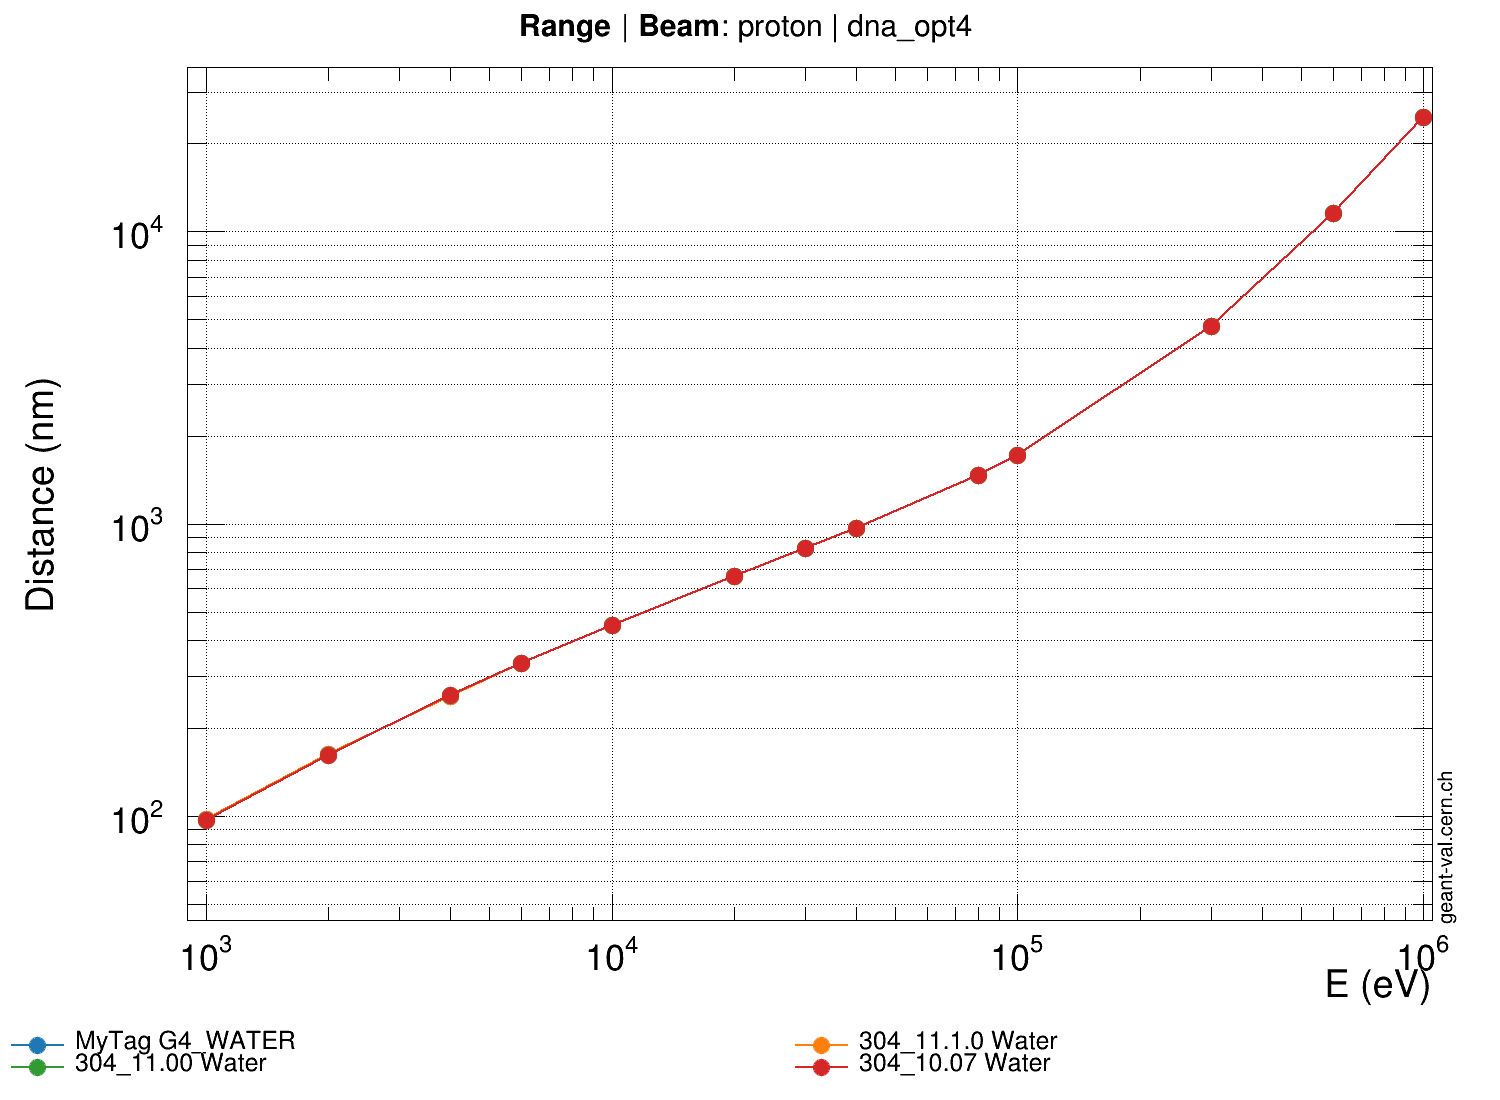
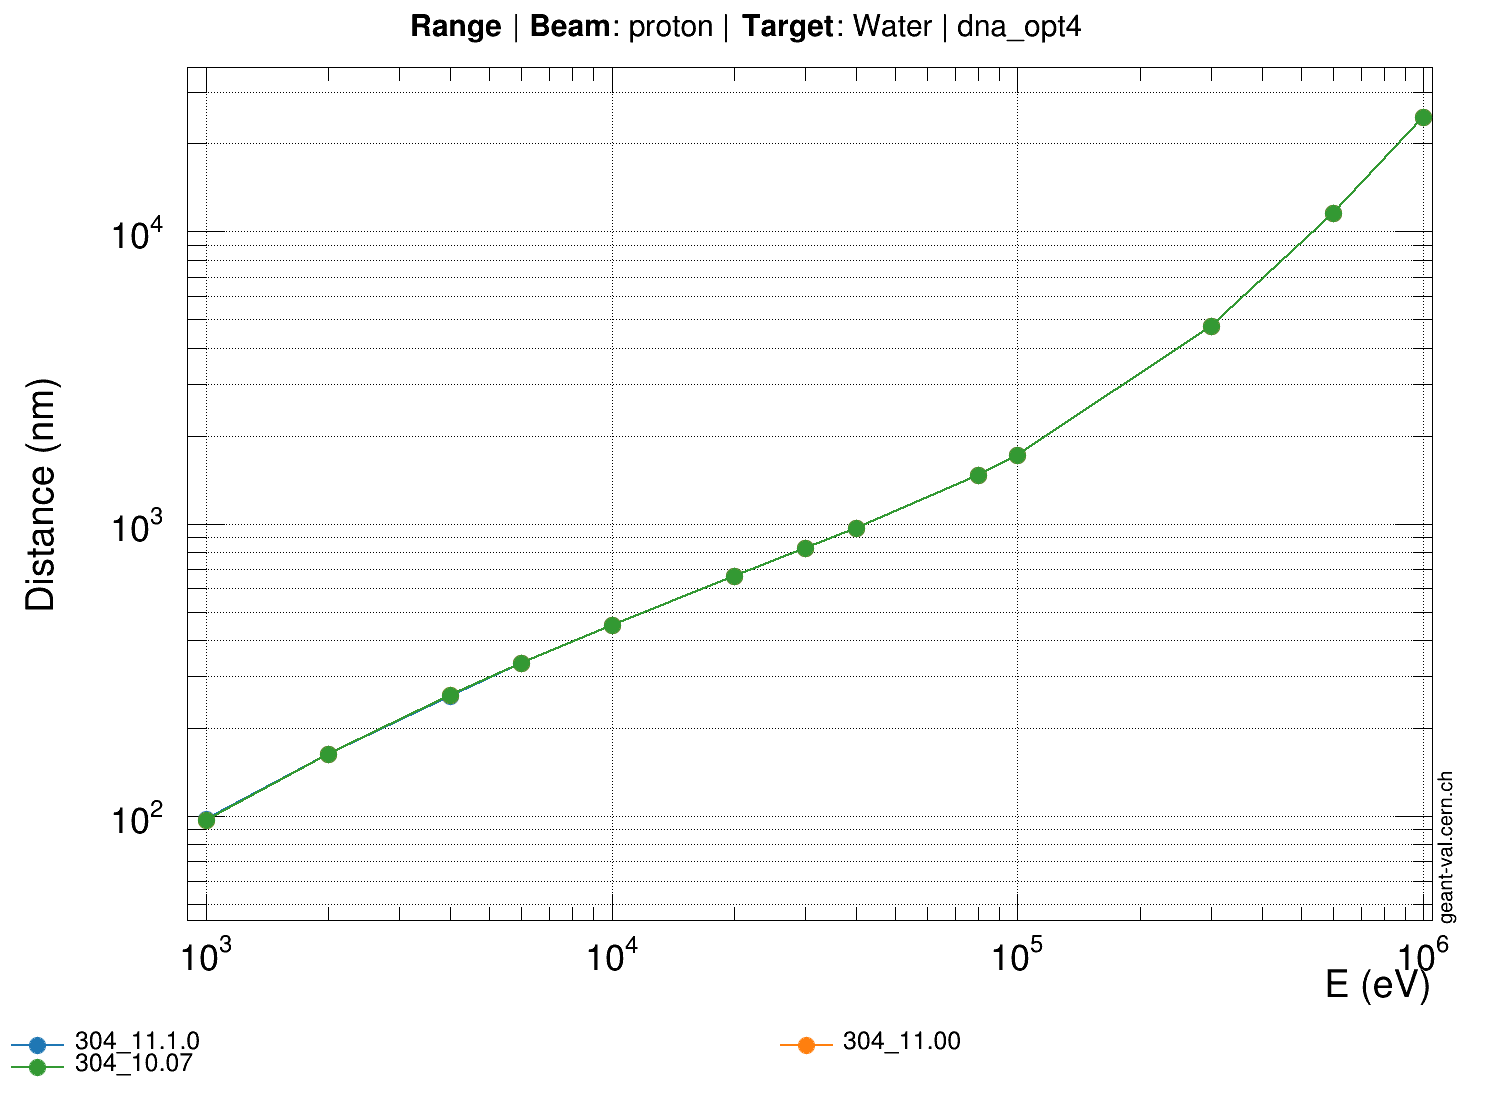
range/proton.conf/MyTag : mer. mai 24 12:37:12 CEST 2023

diff --git a/assets/OUTPUTJSON/MyTag_304_11.1.0_304_11.00_304_10.07_range_proton.conf__dna_opt4.c b/assets/OUTPUTJSON/MyTag_304_11.1.0_304_11.00_304_10.07_range_proton.conf__dna_opt4.c
@@ -5166,3 +5166,207 @@ double gvp_id-1_yerrors[13] = {
   0,
   0
 };
+// Tool:               GEANT4
+// Version:            304_11.1.0
+// Model:              dna_opt4
+// Observable:         range
+// Target:             Water
+// Beam Particle:      proton
+// Secondary Particle: None
+
+double gvp_id-1_x[13] = {
+  1000,
+  2000,
+  4000,
+  6000,
+  10000,
+  20000,
+  30000,
+  40000,
+  80000,
+  100000,
+  300000,
+  600000,
+  1e+06
+};
+double gvp_id-1_y[13] = {
+  97.5713,
+  162.432,
+  258.069,
+  332.877,
+  451.097,
+  661.094,
+  823.99,
+  965.786,
+  1468.51,
+  1715.95,
+  4748.44,
+  11560.4,
+  24690.1
+};
+double gvp_id-1_xerrors[13] = {
+  0,
+  0,
+  0,
+  0,
+  0,
+  0,
+  0,
+  0,
+  0,
+  0,
+  0,
+  0,
+  0
+};
+double gvp_id-1_yerrors[13] = {
+  0,
+  0,
+  0,
+  0,
+  0,
+  0,
+  0,
+  0,
+  0,
+  0,
+  0,
+  0,
+  0
+};
+// Tool:               GEANT4
+// Version:            304_11.00
+// Model:              dna_opt4
+// Observable:         range
+// Target:             Water
+// Beam Particle:      proton
+// Secondary Particle: None
+
+double gvp_id-1_x[13] = {
+  1000,
+  2000,
+  4000,
+  6000,
+  10000,
+  20000,
+  30000,
+  40000,
+  80000,
+  100000,
+  300000,
+  600000,
+  1e+06
+};
+double gvp_id-1_y[13] = {
+  97.244,
+  162.291,
+  259.532,
+  333.001,
+  450.491,
+  661.98,
+  824.076,
+  967.225,
+  1468.58,
+  1713.29,
+  4752.09,
+  11555,
+  24687.3
+};
+double gvp_id-1_xerrors[13] = {
+  0,
+  0,
+  0,
+  0,
+  0,
+  0,
+  0,
+  0,
+  0,
+  0,
+  0,
+  0,
+  0
+};
+double gvp_id-1_yerrors[13] = {
+  0,
+  0,
+  0,
+  0,
+  0,
+  0,
+  0,
+  0,
+  0,
+  0,
+  0,
+  0,
+  0
+};
+// Tool:               GEANT4
+// Version:            304_10.07
+// Model:              dna_opt4
+// Observable:         range
+// Target:             Water
+// Beam Particle:      proton
+// Secondary Particle: None
+
+double gvp_id-1_x[13] = {
+  1000,
+  2000,
+  4000,
+  6000,
+  10000,
+  20000,
+  30000,
+  40000,
+  80000,
+  100000,
+  300000,
+  600000,
+  1e+06
+};
+double gvp_id-1_y[13] = {
+  97.244,
+  162.291,
+  259.532,
+  333.001,
+  450.491,
+  661.98,
+  824.076,
+  967.225,
+  1468.58,
+  1713.29,
+  4752.09,
+  11555,
+  24687.3
+};
+double gvp_id-1_xerrors[13] = {
+  0,
+  0,
+  0,
+  0,
+  0,
+  0,
+  0,
+  0,
+  0,
+  0,
+  0,
+  0,
+  0
+};
+double gvp_id-1_yerrors[13] = {
+  0,
+  0,
+  0,
+  0,
+  0,
+  0,
+  0,
+  0,
+  0,
+  0,
+  0,
+  0,
+  0
+};

diff --git a/assets/OUTPUTJSON/geant4/MyTag/x86_64/range/proton.conf.c b/assets/OUTPUTJSON/geant4/MyTag/x86_64/range/proton.conf.c
@@ -1494,3 +1494,139 @@ double gvp_id-1_yerrors[13] = {
   0,
   0
 };
+// Tool:               GEANT4
+// Version:            MyTag
+// Model:              dna_opt4
+// Observable:         range
+// Target:             G4_WATER
+// Beam Particle:      proton
+// Secondary Particle: None
+
+double gvp_id-1_x[13] = {
+  1000,
+  2000,
+  4000,
+  6000,
+  10000,
+  20000,
+  30000,
+  40000,
+  80000,
+  100000,
+  300000,
+  600000,
+  1e+06
+};
+double gvp_id-1_y[13] = {
+  97.5713,
+  162.432,
+  258.069,
+  332.877,
+  451.099,
+  660.957,
+  823.525,
+  965.747,
+  1468.24,
+  1714.98,
+  4749.81,
+  11561.2,
+  24690.5
+};
+double gvp_id-1_xerrors[13] = {
+  0,
+  0,
+  0,
+  0,
+  0,
+  0,
+  0,
+  0,
+  0,
+  0,
+  0,
+  0,
+  0
+};
+double gvp_id-1_yerrors[13] = {
+  0,
+  0,
+  0,
+  0,
+  0,
+  0,
+  0,
+  0,
+  0,
+  0,
+  0,
+  0,
+  0
+};
+// Tool:               GEANT4
+// Version:            MyTag
+// Model:              dna_opt2
+// Observable:         range
+// Target:             G4_WATER
+// Beam Particle:      proton
+// Secondary Particle: None
+
+double gvp_id-1_x[13] = {
+  1000,
+  2000,
+  4000,
+  6000,
+  10000,
+  20000,
+  30000,
+  40000,
+  80000,
+  100000,
+  300000,
+  600000,
+  1e+06
+};
+double gvp_id-1_y[13] = {
+  97.043,
+  162.982,
+  258.86,
+  333.451,
+  450.222,
+  661.064,
+  823.977,
+  965.895,
+  1470.18,
+  1713.94,
+  4751.86,
+  11532,
+  24533.4
+};
+double gvp_id-1_xerrors[13] = {
+  0,
+  0,
+  0,
+  0,
+  0,
+  0,
+  0,
+  0,
+  0,
+  0,
+  0,
+  0,
+  0
+};
+double gvp_id-1_yerrors[13] = {
+  0,
+  0,
+  0,
+  0,
+  0,
+  0,
+  0,
+  0,
+  0,
+  0,
+  0,
+  0,
+  0
+};
